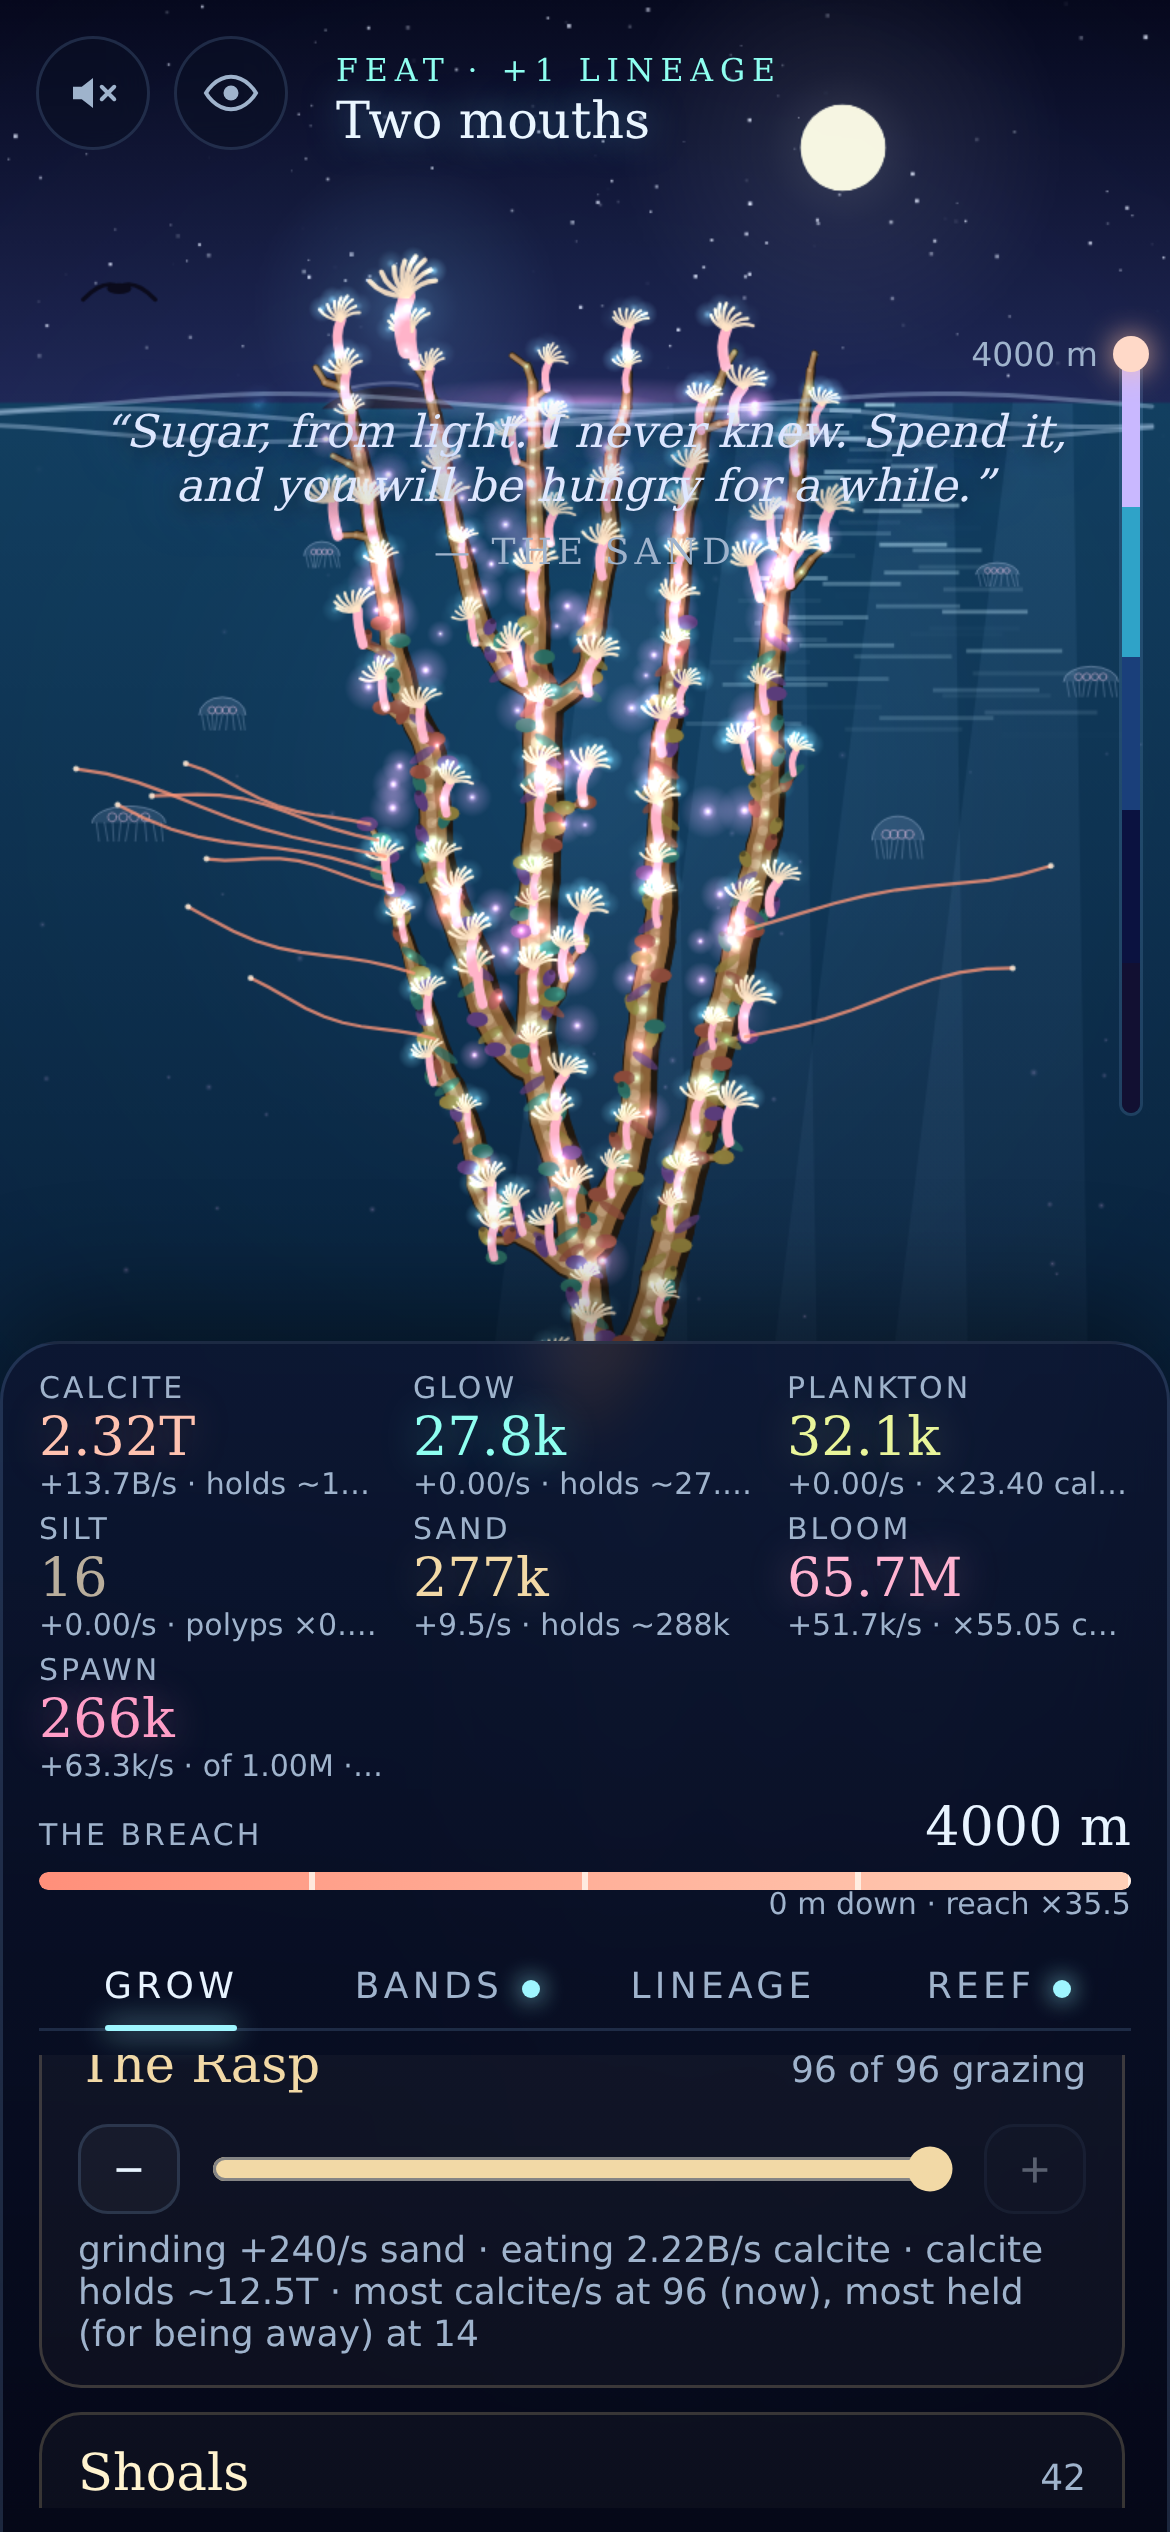
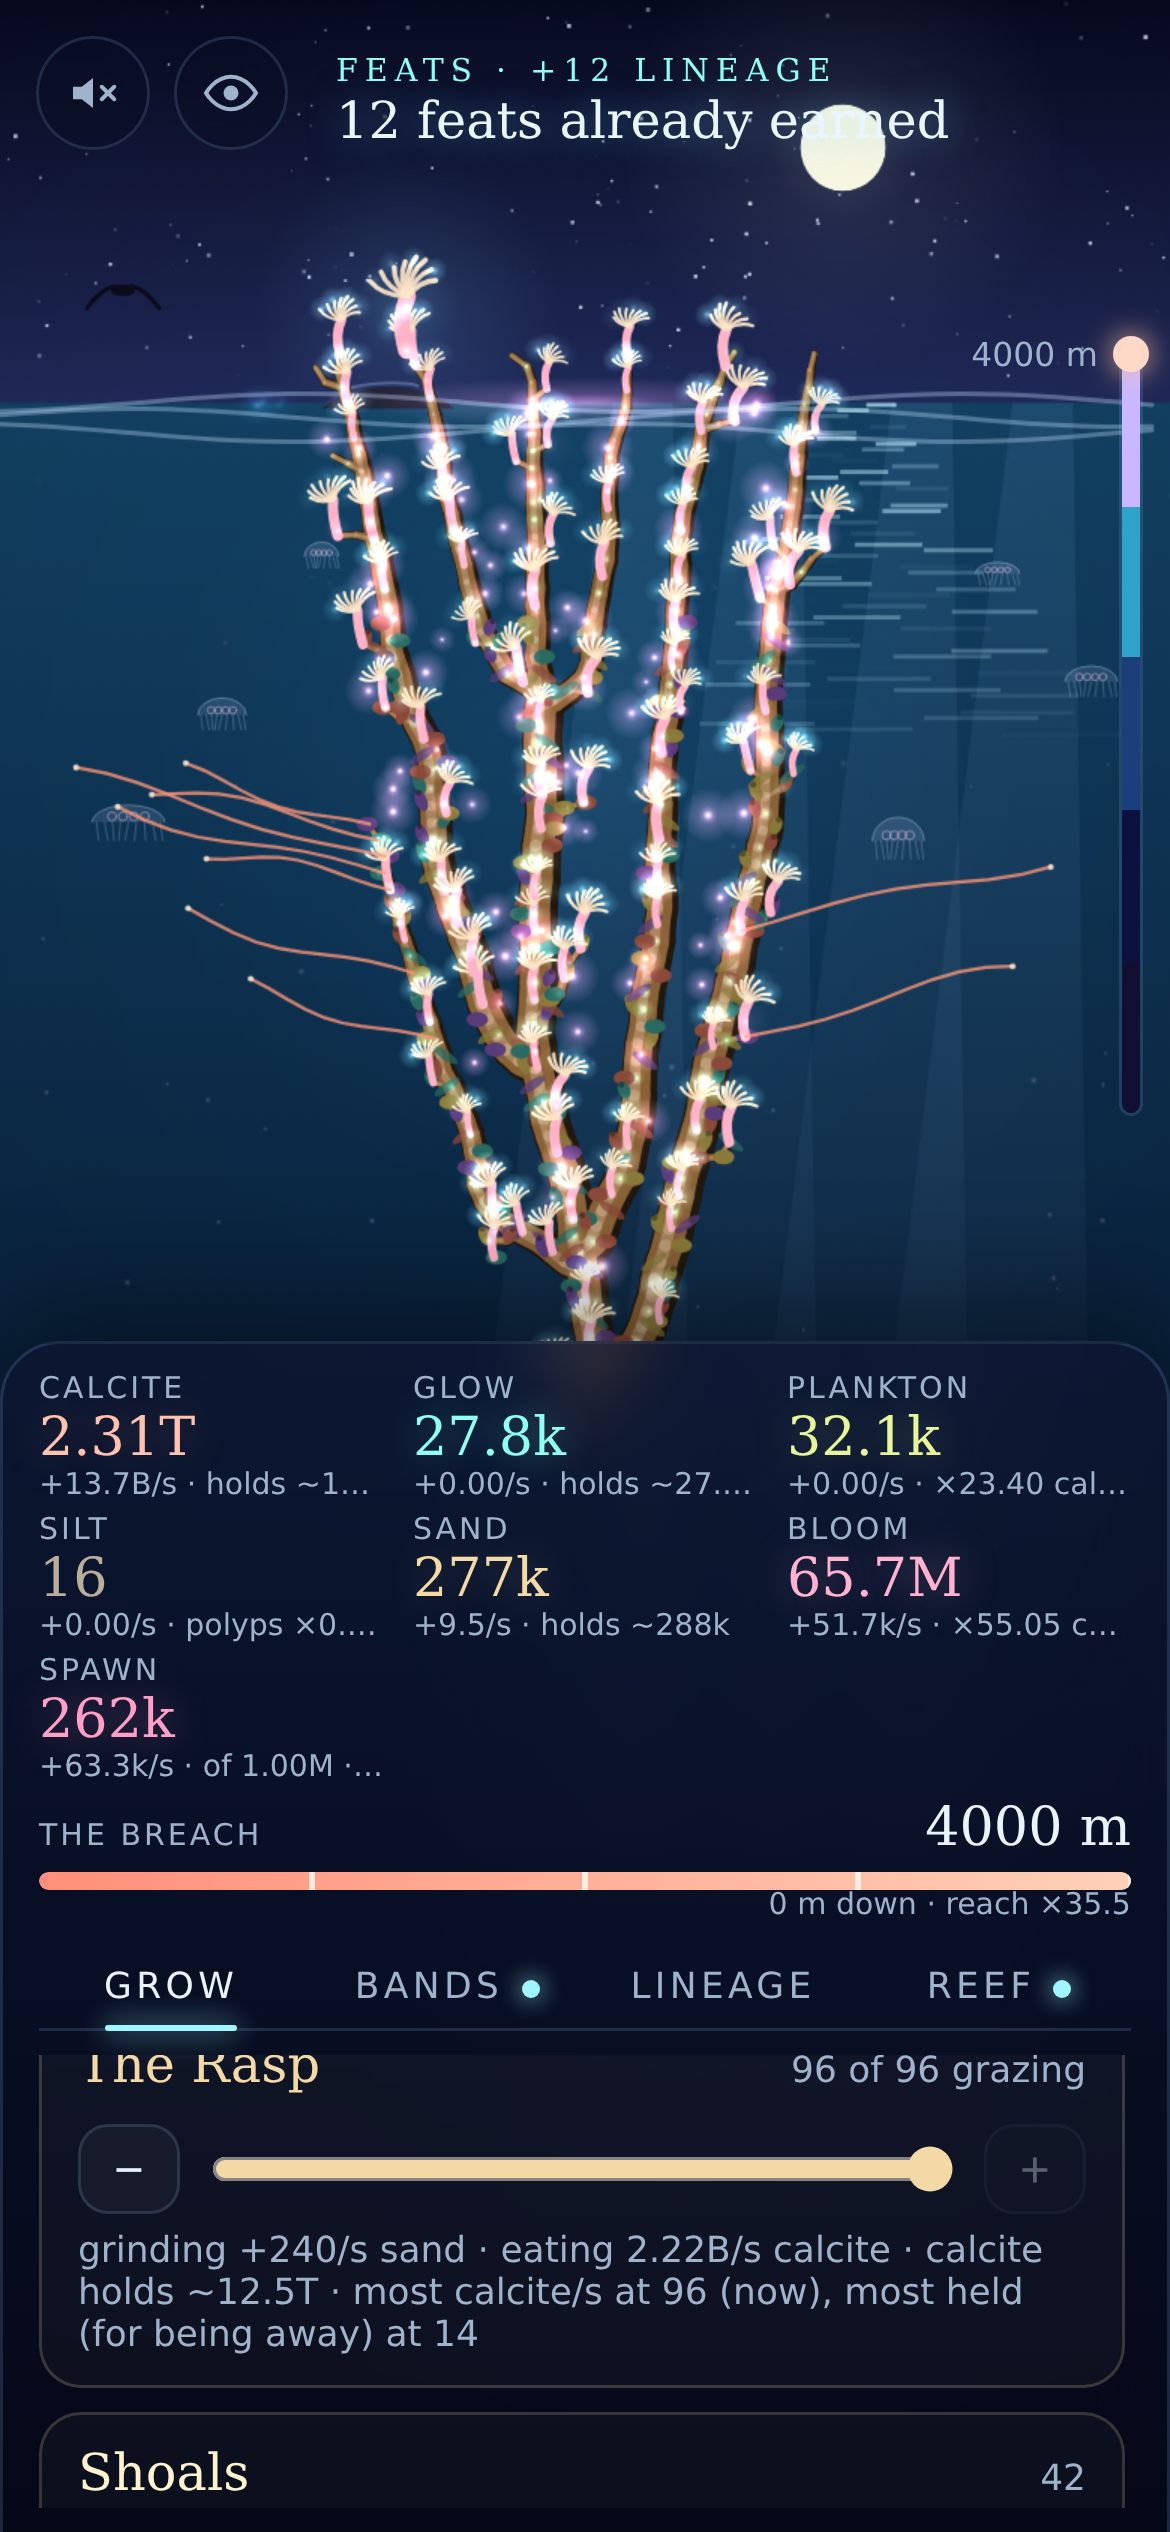
Feats earned before load are granted together with one note

diff --git a/src/client/main.ts b/src/client/main.ts
@@ -262,6 +262,15 @@ const panel = createPanel(ui, {
 });
 panel.primeStories(state);
 showReefName();
+// Feats already earned when a reef loads (older saves, or long absences) are granted together.
+if (frozenT === null && botT === null) {
+  const already = newFeats(state);
+  if (already.length > 1) {
+    for (const f of already) state.meta.seen.push(`f:${f.id}`);
+    state.meta.lineage += already.length;
+    setTimeout(() => showJournalNote(`Feats · +${already.length} lineage`, `${already.length} feats already earned`), 1500);
+  }
+}
 // A brand-new reef: let the title and the dark water show before the first band's story.
 if (state.bands.length === 0 && state.meta.spawnings === 0 && frozenT === null) panel.holdStories(3500);
 

diff --git a/docs/PROGRESS.md b/docs/PROGRESS.md
@@ -200,3 +200,4 @@ date, what landed, what is half-done, what's next.
 - Lineage tab "Your line": each earlier reef (name and generation, height let go at or spawned, seamount, Form dialect), kept in meta.ancestors.
 - Taps in the dark zones (Silt Floor, Midnight Water) also set off a burst of blue plankton sparks.
 - Finale: the memory choice centres in the scene area on desktop (it overlapped the panel); at the Breach only the moon whisper may speak (others talked over the spawning).
+- Feats already earned when a reef loads (older saves) are granted together with one note instead of a long queue of toasts.
